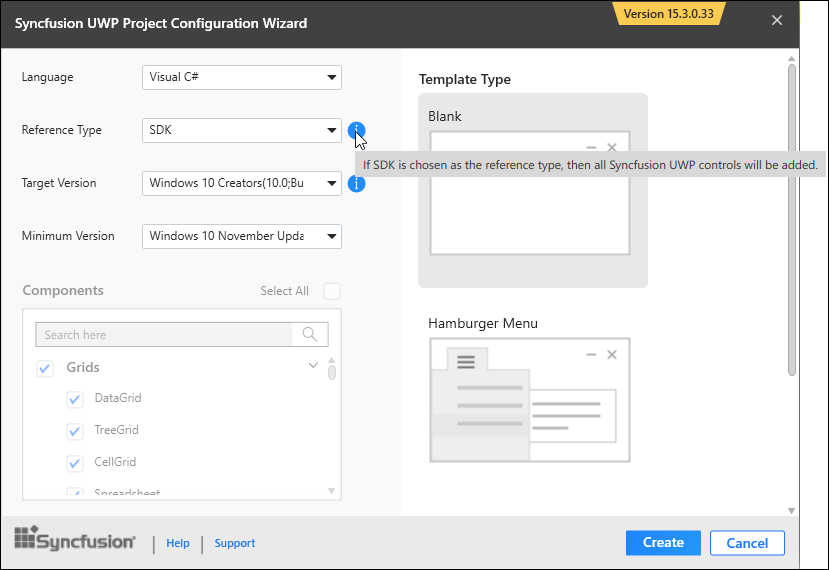
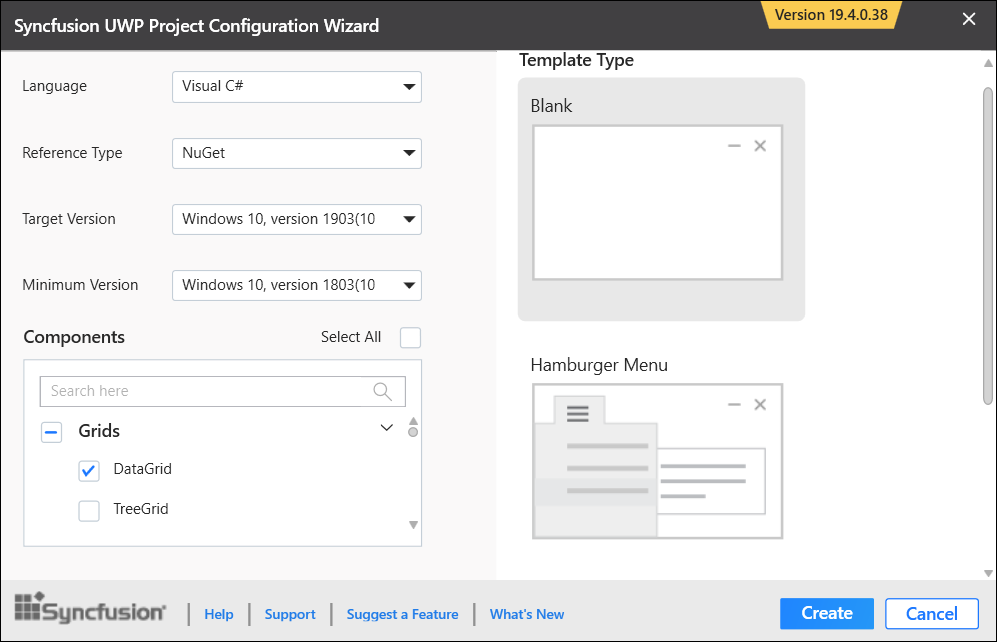
EXT-6474-Extension UG Changes

diff --git a/uwp/Visual-Studio-Integration/Visual-Studio-Extensions/Create-Project.md b/uwp/Visual-Studio-Integration/Visual-Studio-Extensions/Create-Project.md
@@ -15,19 +15,25 @@ I> The Syncfusion UWP project templates are available from v15.3.0.26.
 
 Use the following steps to create the Syncfusion UWP project through the Visual Studio Project Template:
 
-> Before use the Syncfusion UWP Project Template, check whether the **UWP Extensions - Syncfusion** installed or not in Visual Studio Extension Manager by clicking on the Tools -> Extensions and Updates -> Installed for Visual Studio 2017 or lower and for Visual Studio 2019 by clicking on the Extensions -> Manage Extensions -> Installed.
+> Before use the Syncfusion UWP Project Template, check whether the **UWP Extensions - Syncfusion** installed or not in Visual Studio Extension Manager by clicking on the **Extensions -> Manage Extensions -> Installed** for Visual Studio 2019 or later and for Visual Studio 2017 **Tools -> Extensions and Updates -> Installed**.
 
 1. To create a Syncfusion UWP project, follow either one of the options below:
 
    **Option 1:**   
    Click **Syncfusion Menu** and choose **Essential Studio for UWP > Create New Syncfusion Project…** in **Visual Studio**.
    
+   ![Choose Syncfusion Universal Windows Application from Visual Studio new project dialog via Syncfusion menu](Syncfusion-Project-Templates_images/Syncfusion_Menu_ProjectTemplate-latest.png)
+
+   N> In Visual Studio 2017, you can see the Syncfusion menu directly in the Visual Studio menu.
+
    ![Choose Syncfusion Universal Windows Application from Visual Studio new project dialog via Syncfusion menu](Syncfusion-Project-Templates_images/Syncfusion_Menu_ProjectTemplate.png)
 
-   N> In Visual Studio 2019, Syncfusion menu is available under Extensions in Visual Studio menu.
-
    **Option 2:**  
-   Choose **File > New > Project** and navigate to **Syncfusion > Windows Universal > Syncfusion Universal Windows Application** in **Visual Studio**.
+   Choose **File -> New -> Project**. Opens a new dialog to create a new project. By filtering the project type with Syncfusion or using the **Syncfusion** keyword in the search option, you can get the templates offered by Syncfusion for UWP.
+
+   ![Choose Syncfusion Universal Windows Application from Visual Studio new project dialog](Syncfusion-Project-Templates_images/Syncfusion-Project-Templates-img1-latest.png)
+
+   N> In Visual Studio 2017, Choose File > New > Project and navigate to Syncfusion > Windows Universal > Syncfusion Universal Windows Application.
 
    ![Choose Syncfusion Universal Windows Application from Visual Studio new project dialog](Syncfusion-Project-Templates_images/Syncfusion-Project-Templates-img1.jpeg)
 
@@ -39,7 +45,7 @@ Use the following steps to create the Syncfusion UWP project through the Visual 
 
    **Language:** Select the language, either Visual C# or Visual Basic.
 
-   **Reference Type:** Select the reference type of UWP Project, either Assemblies or SDK.
+   **Reference Type:** Select the reference type of UWP Project, NuGet, Assemblies, or SDK.
 
    **Target Version:** Choose the Target Version of the UWP platform that your project is targeting. This sets the **TargetPlatformVersion** setting in your project file.
 

diff --git a/uwp/Visual-Studio-Integration/Visual-Studio-Extensions/Troubleshooting.md b/uwp/Visual-Studio-Integration/Visual-Studio-Extensions/Troubleshooting.md
@@ -19,16 +19,18 @@ Troubleshoot the project with the Syncfusion configuration and apply the fix lik
 
 The following steps help you to utilize the Syncfusion Troubleshooter by Visual Studio. 
 
-> Before use the Syncfusion Troubleshooter for UWP, check whether the **UWP Extensions - Syncfusion** installed or not in Visual Studio Extension Manager by clicking on the Tools -> Extensions and Updates -> Installed for Visual Studio 2017 or lower and for Visual Studio 2019 by clicking on the Extensions -> Manage Extensions -> Installed.
+> Before use the Syncfusion Troubleshooter for UWP, check whether the **UWP Extensions - Syncfusion** installed or not in Visual Studio Extension Manager by clicking on the **Extensions -> Manage Extensions -> Installed** for Visual Studio 2019 or later and for Visual Studio 2017 **Tools -> Extensions and Updates -> Installed**.
 
 1. To open Syncfusion Troubleshooter Wizard, follow either one of the options below: 
    
    **Option 1:**  
-   Open an existing Syncfusion UWP Application, Click **Syncfusion Menu** and choose **Essential Studio for UWP > Troubleshoot…** in Visual Studio.
+   Open an existing Syncfusion UWP Application, Click **Extensions->Syncfusion Menu** and choose **Essential Studio for UWP > Troubleshoot…** in Visual Studio.
+
+   ![Syncfusion Troubleshooter via Syncfusion menu](SyncfusionTroubleshooter_images/Syncfusion_Menu_Troubleshooter-latest.png)
+
+   N> In Visual Studio 2017, you can see the Syncfusion menu directly in the Visual Studio menu.
 
    ![Syncfusion Troubleshooter via Syncfusion menu](SyncfusionTroubleshooter_images/Syncfusion_Menu_Troubleshooter.png)
-
-   N> In Visual Studio 2019, Syncfusion menu is available under Extensions in Visual Studio menu.
 
    **Option 2:**  
    Right-click the Project file in Solution Explorer, then select the command **Syncfusion Troubleshooter…**

diff --git a/uwp/Visual-Studio-Integration/Overview.md b/uwp/Visual-Studio-Integration/Overview.md
@@ -9,9 +9,14 @@ documentation: ug
 
 # UWP Syncfusion Extensions Overview
  
-The Syncfusion UWP Visual Studio Extensions can be accessed through the Syncfusion Menu to create and configure the project with Syncfusion references in Visual Studio. The Syncfusion UWP Extensions supports Microsoft Visual Studio 2017.
+The Syncfusion UWP Visual Studio Extensions can be accessed through the Syncfusion Menu to create and configure the project with Syncfusion references in Visual Studio. The Syncfusion UWP Extensions supports from Microsoft Visual Studio 2017.
 
-N> Syncfusion Extension is published in Visual Studio Marketplace. You can download UWP Extensions [here](https://marketplace.visualstudio.com/items?itemName=SyncfusionInc.UWP-Extensions).
+N> Syncfusion Extension is published in Visual Studio Marketplace. We provided Separate Syncfusion UWP Extension support for Visual Studio 2022 and Visual Studio 2019 or lower. Please refer below Visual Marketplace link.
+
+[Visual Studio 2022](https://marketplace.visualstudio.com/items?itemName=SyncfusionInc.UWPVSExtensions)
+
+[Visual Studio 2019 or lower](https://marketplace.visualstudio.com/items?itemName=SyncfusionInc.UWP-Extensions)
+
 
 I> The Syncfusion UWP menu option is available from v17.1.0.32.
 
@@ -28,6 +33,6 @@ The Syncfusion provides the following extension supports in Visual Studio:
 
 ![Syncfusion Menu when Selected Syncfusion UWP application in Visual Studio](Overview-images/Syncfusion_Menu_OverView2.png)
 
-N> In Visual Studio 2019, Syncfusion menu is available under Extensions in Visual Studio menu.
+N> In Visual Studio 2017, you can see the Syncfusion menu directly in the Visual Studio menu.
 
 

diff --git a/uwp/Visual-Studio-Integration/Visual-Studio-Extensions/Check-for-Updates.md b/uwp/Visual-Studio-Integration/Visual-Studio-Extensions/Check-for-Updates.md
@@ -15,11 +15,13 @@ I> The Syncfusion Check for updates is available from v17.1.0.32.
 
 You can check updates availability in Visual Studio, and then install the update version if required.
 
-1. Choose **Syncfusion -> Check for Updates…** in the Visual Studio menu
+1. Choose **Extensions->Syncfusion -> Check for Updates…** in the Visual Studio menu.
+
+   ![Syncfusion check for updates menu](Check-for-Updates_images/Check-for-Updates_images-img1-latest.png)
+
+   N> In Visual Studio 2017, you can see the Syncfusion menu directly in the Visual Studio menu.
 
    ![Syncfusion check for updates menu](Check-for-Updates_images/Check-for-Updates_images-img1.png)
-
-   N> In Visual Studio 2019, Syncfusion menu is available under Extensions in Visual Studio menu.
    
 2. When there is an update, **Update** dialog box opens.
 
